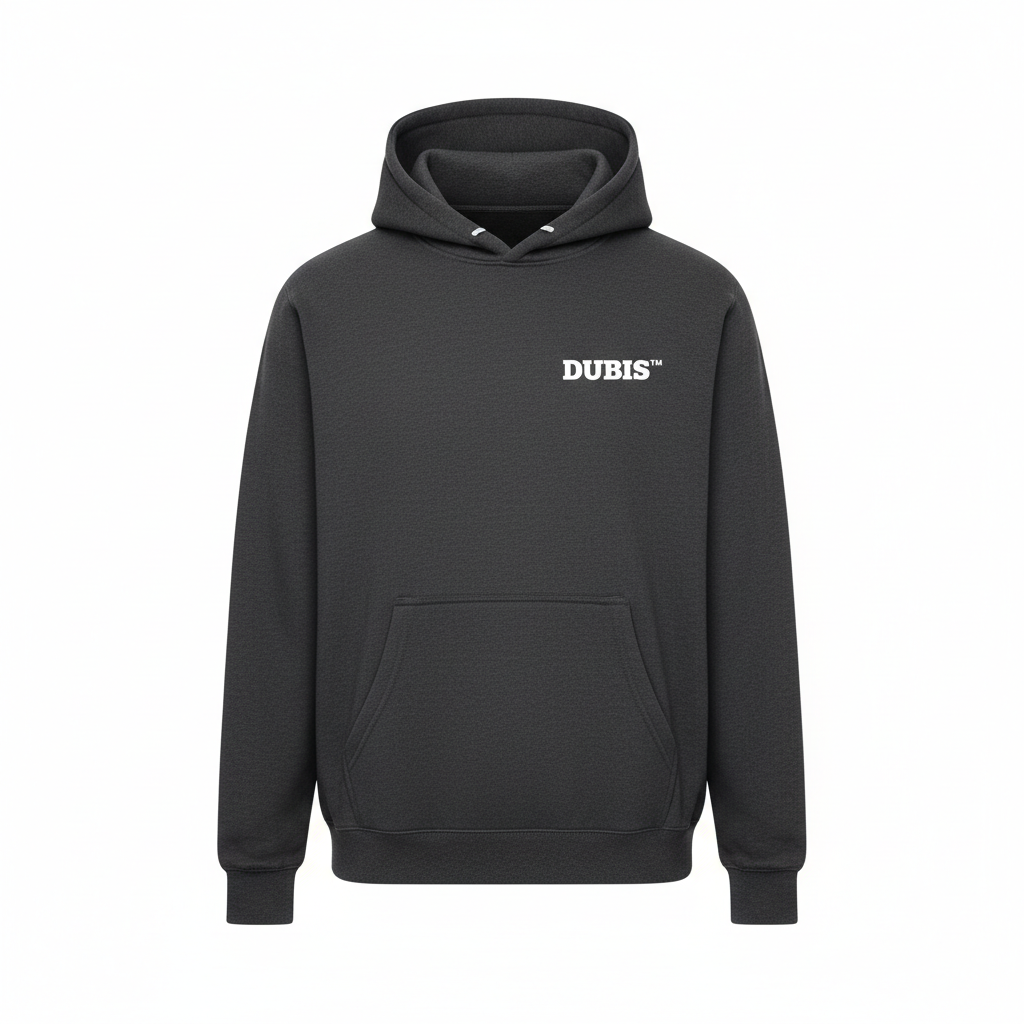
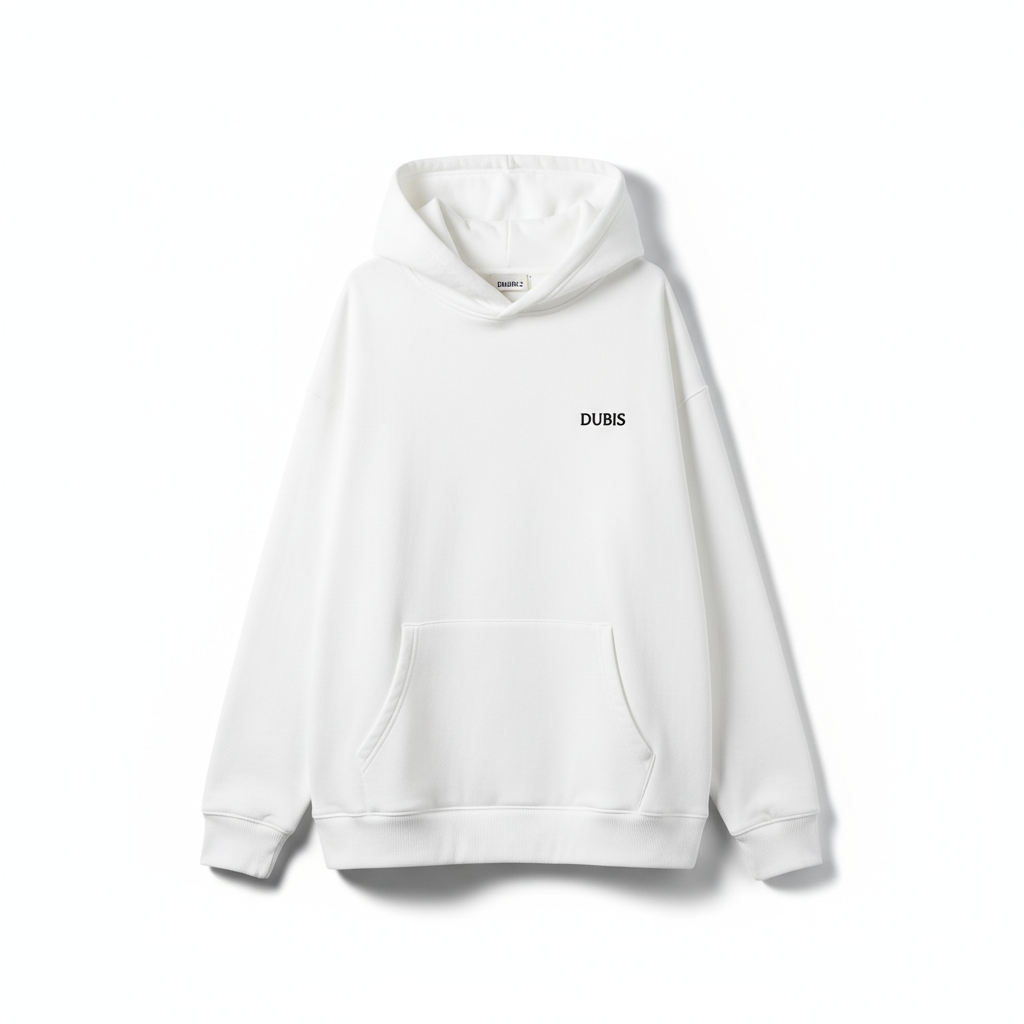
feat: use real Gelato mockups for site + posts
Site: replaced AI-lifestyle product-N.jpg fallbacks with real Gelato
White-front renders (the clean studio mockup with DUBIS chest logo).
Skipped product-7 (cap, no back design). The site already pulled the
per-color {N}-{Color}-{view}.jpg mockups for the card grid — this
only swaps the FALLBACK image referenced when the per-color file is
missing or hasn't loaded yet.

Post pipeline: stopped invoking Gemini to invent lifestyle photos in
the auto-content + content-run paths. New helper pickGelatoBackMockupUrl()
returns https://www.dubis.net/images/product-{id}-{Color}-back.jpg —
the BACK view, which is where the slogan artwork actually lives. Color
picked deterministically per task.id (idempotent across retries, varies
across posts), preferring non-Black/non-Charcoal for visual spread —
mirrors js/main.js pickDisplayColor.

Dropped the prompt building, dual-image Gemini call, and ig-images
upload from both paths. Pollinations + dubis_images gallery remain as
fallbacks. Standalone admin routes (generate-image, generate-product-image,
approve-product) still use Gemini for one-off authoring.

diff --git a/supabase/functions/agents/index.ts b/supabase/functions/agents/index.ts
@@ -134,6 +134,34 @@ function bytesToB64(bytes: Uint8Array): string {
 function seededPick<T>(seed: number, arr: T[]): T {
   return arr[seed % arr.length];
 }
+
+// Pick the URL of the REAL Gelato back-mockup for a product. The back is what
+// carries the slogan artwork, so this is what social posts should show.
+// Mirrors js/main.js pickDisplayColor: prefer non-Black/non-Charcoal so posts
+// don't all look like a dark-shirt wall. Seeded by taskId so the same task is
+// idempotent across reruns but two tasks for the same product vary their color.
+// Replaces the AI lifestyle-photo generation (Gemini/Pollinations) for the
+// auto post pipeline as of 2026-05-16: we now publish the real Gelato render
+// instead of an invented person wearing the garment.
+function pickGelatoBackMockupUrl(
+  productIdNumeric: number | string | null | undefined,
+  colors: unknown,
+  taskId: string | null | undefined,
+): string | null {
+  const id = String(productIdNumeric ?? '').trim();
+  if (!id) return null;
+  const all = Array.isArray(colors)
+    ? (colors as unknown[]).filter((c): c is string => typeof c === 'string' && c.length > 0)
+    : [];
+  if (all.length === 0) return null;
+  const colorful = all.filter(c => c !== 'Black' && c !== 'Charcoal');
+  const pool = colorful.length > 0 ? colorful : all;
+  const hex = (taskId || '').replace(/-/g, '').substring(0, 8);
+  const seed = hex ? (parseInt(hex, 16) || 0) : ((Number(id) || 0) * 2246822519);
+  const pick = pool[(seed >>> 0) % pool.length];
+  if (!pick) return null;
+  return `https://www.dubis.net/images/product-${id}-${pick.replace(/ /g, '-')}-back.jpg`;
+}
 function buildVisualVariation(taskId: string, titleLower: string): string {
   // 24 bits of entropy from the task UUID is plenty for picking from small arrays.
   const hex = (taskId || '').replace(/-/g, '').substring(0, 12) || '000000000000';
@@ -477,36 +505,28 @@ Return ONLY valid JSON: {"caption_he":"...","caption_en":"...","hashtags":"#DUBI
             }
 
             let imageUrl = hasPermImg ? (cd.generated_image_url as string) : '';
-            // Try Gemini first — using a REAL product photo as reference so the
-            // generated image shows the actual garment (correct slogan/logo).
-            if (!imageUrl && geminiKey) {
-              // Resolve product_id_numeric + colors + back-design URLs so we can
-              // send BOTH the front product photo AND the back-print artwork to
-              // Gemini. Without the back ref, Gemini invents blank garments.
+            // 2026-05-16: stopped using Gemini to invent lifestyle photos. The
+            // social post now shows the REAL Gelato back-mockup — that's the
+            // image that carries the actual slogan artwork the customer buys.
+            // Resolve product_id + colors so we can pick the right back mockup.
+            if (!imageUrl) {
               let refPid: string = (cd.product_id as string) || '';
               let refColors: string[] = Array.isArray(cd.product_colors) ? (cd.product_colors as string[]) : [];
-              let refSloganDb = '';
-              let backDarkUrl: string | null = null;
-              let backWhiteUrl: string | null = null;
               const refSlogan = (cd.product_slogan as string) || '';
               try {
-                if (refPid) {
+                if (refPid && refColors.length === 0) {
                   const { data: pr } = await sb.from('dubis_products')
-                    .select('colors, slogan, design_back_dark_url, design_back_white_url')
+                    .select('colors')
                     .eq('active', true)
                     .eq('product_id_numeric', refPid)
                     .limit(1);
                   if (pr?.length) {
-                    const row = pr[0] as Record<string, unknown>;
-                    const c = row.colors;
-                    if (Array.isArray(c) && !refColors.length) refColors = c as string[];
-                    refSloganDb = (row.slogan as string) || '';
-                    backDarkUrl  = (row.design_back_dark_url  as string) || null;
-                    backWhiteUrl = (row.design_back_white_url as string) || null;
+                    const c = (pr[0] as Record<string, unknown>).colors;
+                    if (Array.isArray(c)) refColors = c as string[];
                   }
-                } else if (refSlogan) {
+                } else if (!refPid && refSlogan) {
                   const { data: hit } = await sb.from('dubis_products')
-                    .select('product_id_numeric, colors, slogan, design_back_dark_url, design_back_white_url')
+                    .select('product_id_numeric, colors')
                     .eq('active', true)
                     .ilike('slogan', refSlogan)
                     .limit(1);
@@ -515,73 +535,11 @@ Return ONLY valid JSON: {"caption_he":"...","caption_en":"...","hashtags":"#DUBI
                     refPid = String(row.product_id_numeric);
                     const c = row.colors;
                     if (Array.isArray(c)) refColors = c as string[];
-                    refSloganDb = (row.slogan as string) || '';
-                    backDarkUrl  = (row.design_back_dark_url  as string) || null;
-                    backWhiteUrl = (row.design_back_white_url as string) || null;
                   }
                 }
               } catch { /* ignore */ }
-              // Dark colorways dominate our catalog → prefer the white-ink back
-              // artwork (the print that appears on dark shirts) as primary ref.
-              const preferredBack = backWhiteUrl || backDarkUrl;
-              const ref = refPid ? await fetchProductReferenceImage(refPid, refColors, preferredBack) : null;
-
-              // Scene description (no slogan text — Gemini will copy it from the reference).
-              // 2026-04-23: switched to buildVisualVariation() to stop mode collapse (Task #40).
-              // We intentionally IGNORE gen.image_prompt here — the caption LLM kept returning
-              // near-identical "person 40s couch" prompts which is exactly how we ended up
-              // with 5 identical IG posts in a row. The seeded matrix guarantees diversity.
-              const titleLower = (task.title as string).toLowerCase();
-              const scene = (cd.format as string) === 'quote_card'
-                ? 'Product laid flat on a moody dark charcoal textured surface, low-key directional lighting'
-                : buildVisualVariation(task.id as string, titleLower);
-
-              const sloganForPrompt = refSloganDb || refSlogan;
-              const hasBack = !!(ref && ref.back);
-              const refPrompt = `You are given ${hasBack ? 'TWO reference images' : 'ONE reference image'} for this post.
-
-IMAGE 1 = the EXACT DUBIS garment (front view). Use this for garment color, cut, fabric, fit, and the small "DUBIS™" chest logo placement.
-${hasBack ? `IMAGE 2 = the EXACT back-print artwork that MUST appear on the back of this garment. The slogan on the back reads: "${sloganForPrompt}". Reproduce this artwork verbatim on the back of the garment in the generated photo — every letter, every glyph, same typography, same size, same placement. Do NOT rephrase, translate, paraphrase, redesign, or omit any part of it.` : ''}
-
-HARD CONSTRAINTS (non-negotiable):
-- This is a photorealistic DSLR photograph — not an illustration, not a render, not a painting.
-- The BACK of the garment must be clearly visible in the final photo (see SCENE). The slogan${sloganForPrompt ? ` "${sloganForPrompt}"` : ''} must be readable in the image.
-- Do NOT invent, translate, rephrase, or redesign any text on the garment.
-- Square 1:1 framing. No watermarks. No borders. No overlaid captions. Do not add any text to the frame that is not already on the garment.
-
-SCENE: ${scene}.
-
-Goal: a real-world lifestyle photo of a real American 35-55 wearing this exact garment, shot on a modern DSLR. The back slogan must be legible and match the artwork reference exactly.`;
-
-              const textOnlyPrompt = `${scene}. The person is wearing a DUBIS anti-fashion garment (dark minimal streetwear aesthetic). Photorealistic DSLR, square 1:1, no watermark, no overlaid text.`;
-
-              try {
-                const parts: unknown[] = [];
-                if (ref) {
-                  parts.push({ inlineData: { mimeType: ref.front.mimeType, data: ref.front.b64 } });
-                  if (ref.back) parts.push({ inlineData: { mimeType: ref.back.mimeType, data: ref.back.b64 } });
-                }
-                parts.push({ text: ref ? refPrompt : textOnlyPrompt });
-                const gRes = await fetch(
-                  `https://generativelanguage.googleapis.com/v1beta/models/gemini-2.5-flash-image:generateContent?key=${geminiKey}`,
-                  { method: 'POST', headers: { 'Content-Type': 'application/json' },
-                    body: JSON.stringify({ contents: [{ parts }], generationConfig: { responseModalities: ['IMAGE', 'TEXT'] } }),
-                    signal: AbortSignal.timeout(60000) },
-                );
-                if (gRes.ok) {
-                  const gData = await gRes.json();
-                  type GemPart = Record<string, unknown>;
-                  const imgPart = gData.candidates?.[0]?.content?.parts?.find((p: GemPart) => (p.inlineData as GemPart)?.mimeType?.toString().startsWith('image/'));
-                  if (imgPart?.inlineData) {
-                    const imgBytes = b64ToBytes(imgPart.inlineData.data as string);
-                    await sb.storage.createBucket('ig-images', { public: true }).catch(() => {});
-                    const fname = `ig-${task.id}.jpg`;
-                    await sb.storage.from('ig-images').upload(fname, imgBytes, { contentType: 'image/jpeg', upsert: true });
-                    const { data: { publicUrl } } = sb.storage.from('ig-images').getPublicUrl(fname);
-                    imageUrl = publicUrl;
-                  }
-                }
-              } catch { /* Gemini timeout — fall through to Pollinations */ }
+              const mockupUrl = pickGelatoBackMockupUrl(refPid, refColors, task.id as string);
+              if (mockupUrl) imageUrl = mockupUrl;
             }
             // Fallback: Pollinations
             if (!imageUrl) {
@@ -1482,99 +1440,38 @@ Return ONLY valid JSON: {"caption_en":"...","hashtags":"#DUBIS #ForTheRestOfUs .
         let imgError = '';
 
         if (!imageUrl) {
-          // Priority 1: Generate with Gemini using the REAL product photo as
-          // reference — preserves the exact slogan and logo on the garment.
+          // Priority 1 (2026-05-16): use the REAL Gelato back-mockup for the
+          // product. That's the image that actually shows the slogan artwork
+          // the customer is buying — no more Gemini lifestyle inventions.
           // Priority 2: Fall back to dubis_images gallery (pre-approved photos).
           const productSlogan = ((cd.product_slogan as string) || '').toLowerCase().trim();
           const productId = (cd.product_id as string) || '';
 
-          // Resolve colors + back-design URL from dubis_products so we pick
-          // a real front image AND send the exact back print to Gemini.
+          // Resolve colors from dubis_products so we pick a real back mockup.
           let productColors: string[] = [];
-          let productSloganDb = '';
-          let backDesignDarkUrl: string | null = null;
-          let backDesignWhiteUrl: string | null = null;
           try {
             if (productId) {
               const { data: pr } = await sb.from('dubis_products')
-                .select('colors, slogan, design_back_dark_url, design_back_white_url')
+                .select('colors')
                 .eq('active', true)
                 .eq('product_id_numeric', productId)
                 .limit(1);
               if (pr?.length) {
-                const row = pr[0] as Record<string, unknown>;
-                const c = row.colors;
+                const c = (pr[0] as Record<string, unknown>).colors;
                 if (Array.isArray(c)) productColors = c as string[];
-                productSloganDb = (row.slogan as string) || '';
-                backDesignDarkUrl  = (row.design_back_dark_url  as string) || null;
-                backDesignWhiteUrl = (row.design_back_white_url as string) || null;
               }
             }
           } catch { /* ignore */ }
 
-          if (geminiKey && productId) {
-            try {
-              // Dark colorways (default) use the white-ink back design; light
-              // colorways use the dark-ink back design. We're biased to dark
-              // garments in fetchProductReferenceImage, so prefer the white
-              // back artwork (i.e. design_back_white_url → the print that
-              // appears on dark shirts) as the primary reference.
-              const preferredBack = backDesignWhiteUrl || backDesignDarkUrl;
-              const ref = await fetchProductReferenceImage(productId, productColors, preferredBack);
-              if (ref) {
-                const titleLower = (task.title as string).toLowerCase();
-                // 2026-04-23: use the anti-mode-collapse variation matrix so every
-                // post gets a visually distinct subject+scene+lens combo (Task #40).
-                const scene = buildVisualVariation(task.id as string, titleLower);
-                const sloganForPrompt = productSloganDb || (cd.product_slogan as string) || '';
-                const hasBack = !!ref.back;
-                const refPrompt = `You are given ${hasBack ? 'TWO reference images' : 'ONE reference image'} for this post.
-
-IMAGE 1 = the EXACT DUBIS garment (front view). Use this for garment color, cut, fabric, fit, and the small "DUBIS™" chest logo placement.
-${hasBack ? `IMAGE 2 = the EXACT back-print artwork that MUST appear on the back of this garment. The slogan on the back reads: "${sloganForPrompt}". Reproduce this artwork verbatim on the back of the garment in the generated photo — every letter, every glyph, same typography, same size, same placement. Do NOT rephrase, translate, paraphrase, redesign, or omit any part of it.` : ''}
-
-HARD CONSTRAINTS (non-negotiable):
-- This is a photorealistic DSLR photograph — not an illustration, not a render, not a painting.
-- The BACK of the garment must be clearly visible in the final photo (see SCENE). The slogan "${sloganForPrompt}" must be readable in the image.
-- Do NOT invent, translate, rephrase, or redesign any text on the garment.
-- Square 1:1 framing. No watermarks. No borders. No overlaid captions. Do not add any text to the frame that is not already on the garment.
-
-SCENE: ${scene}.
-
-Goal: a real-world lifestyle photo of a real American 35-55 wearing this exact garment, shot on a modern DSLR. The back slogan must be legible and match the artwork reference exactly.`;
-                const parts: unknown[] = [{ inlineData: { mimeType: ref.front.mimeType, data: ref.front.b64 } }];
-                if (ref.back) parts.push({ inlineData: { mimeType: ref.back.mimeType, data: ref.back.b64 } });
-                parts.push({ text: refPrompt });
-                const gRes = await fetch(
-                  `https://generativelanguage.googleapis.com/v1beta/models/gemini-2.5-flash-image:generateContent?key=${geminiKey}`,
-                  { method: 'POST', headers: { 'Content-Type': 'application/json' },
-                    body: JSON.stringify({
-                      contents: [{ parts }],
-                      generationConfig: { responseModalities: ['IMAGE', 'TEXT'] },
-                    }),
-                    signal: AbortSignal.timeout(60000) },
-                );
-                if (gRes.ok) {
-                  const gData = await gRes.json();
-                  type GemPart = Record<string, unknown>;
-                  const imgPart = gData.candidates?.[0]?.content?.parts?.find((p: GemPart) => (p.inlineData as GemPart)?.mimeType?.toString().startsWith('image/'));
-                  if (imgPart?.inlineData) {
-                    const imgBytes = b64ToBytes(imgPart.inlineData.data as string);
-                    await sb.storage.createBucket('ig-images', { public: true }).catch(() => {});
-                    const fname = `ig-${task.id}.jpg`;
-                    await sb.storage.from('ig-images').upload(fname, imgBytes, { contentType: 'image/jpeg', upsert: true });
-                    const { data: { publicUrl } } = sb.storage.from('ig-images').getPublicUrl(fname);
-                    imageUrl = publicUrl;
-                  }
-                } else {
-                  imgError = `gemini_ref_http_${gRes.status}`;
-                }
-              } else {
-                imgError = 'no_product_reference_image';
-              }
-            } catch (e) {
-              imgError = `gemini_ref:${(e as Error).message}`;
+          if (productId) {
+            const mockupUrl = pickGelatoBackMockupUrl(productId, productColors, task.id as string);
+            if (mockupUrl) {
+              imageUrl = mockupUrl;
+            } else {
+              imgError = 'no_gelato_back_mockup';
             }
+          } else {
+            imgError = 'no_product_id';
           }
 
           try {
